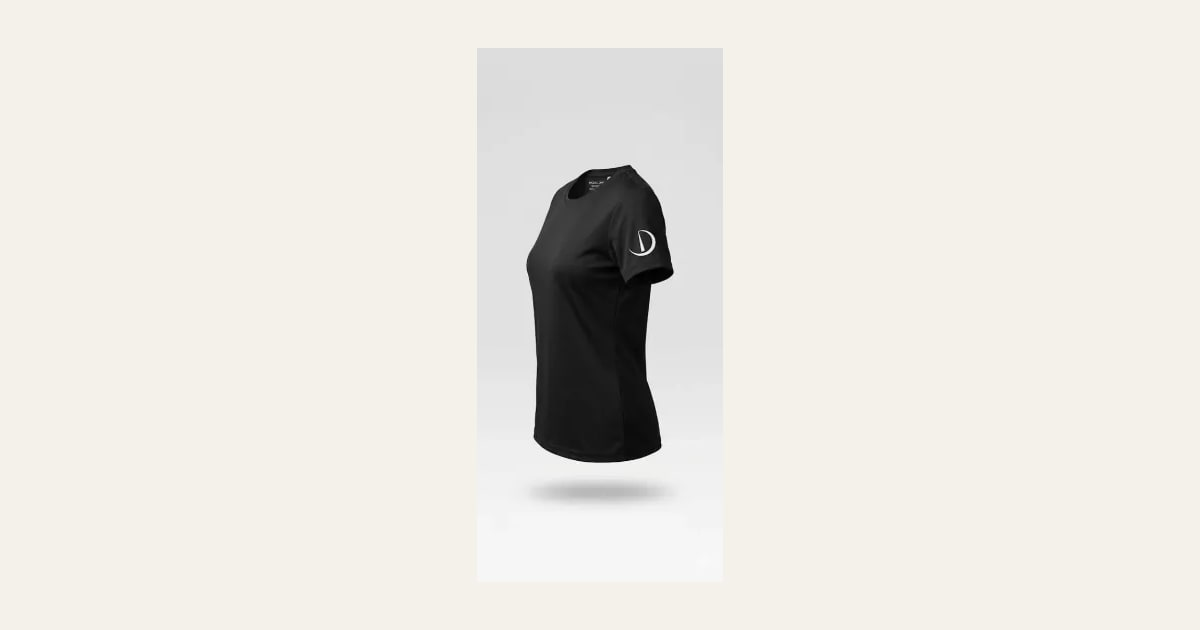
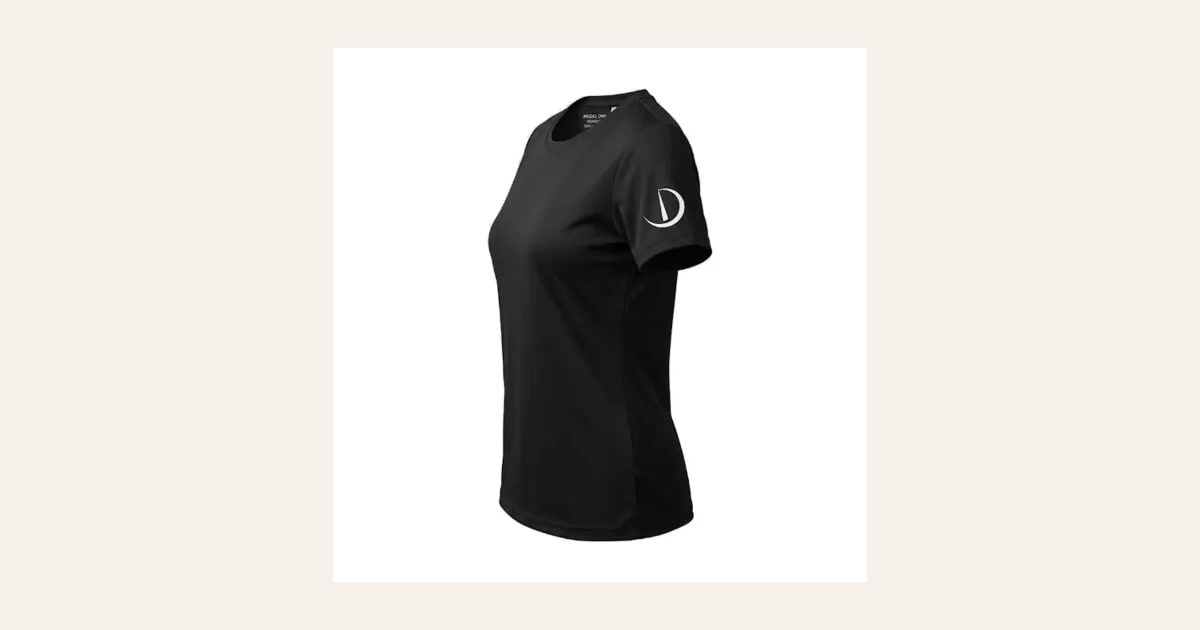
fix(images): clean main photos for Google Shopping on four products
- Ultimate Guide: cut out of the phone screenshot (grey ground, frame and
  AI sparkle removed); also replaces it in the menu, home and category.
- Tour Pure Women: the clean studio shot leads; the pink styled image with
  promotional text moves to hover/second image, where Google allows it.
- Women's Black Icon tee: grey ground and shadow replaced with white.
- Women's Black Performance tee: misspelled "DOMIUS" hem text removed.
New filenames so no cache serves the old ones; OG share images regenerated.
Men's Performance Tee title said Black for a white shirt - now White.

Changed region(s): [[0.37, 0.0603, 0.6167, 0.8746]]

diff --git a/src/data/products/apparel.ts b/src/data/products/apparel.ts
@@ -75,7 +75,7 @@ export const apparel: Product[] = [
   {
     id: 'dominus-tee-performance-black',
     name: "Performance Tee (Men's)",
-    seoTitle: "Performance Golf T-Shirt - Black (Men's)",
+    seoTitle: "Performance Golf T-Shirt - White (Men's)",
     seoDescription:
       "Men's moisture-wicking golf t-shirt in triblend fabric. Back logo with sleeve branding, built to train and play in.",
     category: 'apparel',
@@ -117,15 +117,15 @@ export const apparel: Product[] = [
     subcategory: "Women's Apparel",
     audience: 'women',
     price: 19.99,
-    image: '/images/unnamed-11__fc5a40f7.webp',
+    image: '/images/tee-womens-black-icon__72061fef.webp',
     hoverImage: '/images/unnamed-16__4cc41a28.webp',
     // Black only. This and the white icon tee are separate products, so each
     // offers just its own colour — listing both made them look like duplicates.
     colorVariants: {
-      Black: '/images/unnamed-11__fc5a40f7.webp',
+      Black: '/images/tee-womens-black-icon__72061fef.webp',
     },
     gallery: [
-      '/images/unnamed-11__fc5a40f7.webp',
+      '/images/tee-womens-black-icon__72061fef.webp',
       '/images/unnamed-16__4cc41a28.webp',
     ],
     badge: 'New',
@@ -193,13 +193,13 @@ export const apparel: Product[] = [
     subcategory: "Women's Apparel",
     audience: 'women',
     price: 19.99,
-    image: '/images/a2d1da0a-6213-4a84-8dca-5122fd81823a__3ed0e102.webp',
+    image: '/images/tee-womens-black-performance__0a43f740.webp',
     // Black only.
     colorVariants: {
-      Black: '/images/a2d1da0a-6213-4a84-8dca-5122fd81823a__3ed0e102.webp',
+      Black: '/images/tee-womens-black-performance__0a43f740.webp',
     },
     gallery: [
-      '/images/a2d1da0a-6213-4a84-8dca-5122fd81823a__3ed0e102.webp',
+      '/images/tee-womens-black-performance__0a43f740.webp',
     ],
     badge: 'New',
     description: "Dominus Golf performance tee for women in black. Moisture-wicking triblend with the iconic D logo-train and play in style.",

diff --git a/src/data/products/accessories.ts b/src/data/products/accessories.ts
@@ -55,9 +55,9 @@ export const accessories: Product[] = [
     category: 'accessories',
     subcategory: 'Education',
     price: 14.99,
-    image: '/images/Screenshot_20260324_042207_SamsungInternet__2f2a1710.webp',
+    image: '/images/book-ultimate-guide__3f8ec230.webp',
     gallery: [
-      '/images/Screenshot_20260324_042207_SamsungInternet__2f2a1710.webp',
+      '/images/book-ultimate-guide__3f8ec230.webp',
     ],
     badge: 'New',
     paymentUrl: 'https://square.link/u/CY8NyjAv',
@@ -85,7 +85,7 @@ export const accessories: Product[] = [
     subcategory: 'Education',
     price: 9.99,
     compareAtPrice: 14.99,
-    image: '/images/Screenshot_20260324_042207_SamsungInternet__2f2a1710.webp',
+    image: '/images/book-ultimate-guide__3f8ec230.webp',
     badge: 'FREE WITH TRAINER',
     paymentUrl: 'https://square.link/u/dgAr3D7l',
     description:

diff --git a/src/data/products/trainingSystems.ts b/src/data/products/trainingSystems.ts
@@ -50,11 +50,11 @@ export const trainingSystems: Product[] = [
     audience: 'women',
     subcategory: 'Performance',
     price: 59.99,
-    image: '/images/TourPureTrainerW2__165b6582.webp',
-    hoverImage: '/images/IMG-20251211-WA0000__f2e47d9b.webp',
+    image: '/images/tour-pure-women__b5d79756.webp',
+    hoverImage: '/images/TourPureTrainerW2__165b6582.webp',
     gallery: [
+      '/images/tour-pure-women__b5d79756.webp',
       '/images/TourPureTrainerW2__165b6582.webp',
-      '/images/IMG-20251211-WA0000__f2e47d9b.webp',
     ],
     badge: 'Sold Out',
     paymentUrl: 'https://square.link/u/MwoinSDb',

diff --git a/src/components/home/new/SystemSection.tsx b/src/components/home/new/SystemSection.tsx
@@ -8,7 +8,7 @@ const SYSTEM_CARDS = [
     text: 'A feedback-based training tool designed to reinforce proper sequencing, improve tempo, and help golfers feel correct swing positions through resistance training.'
   },
   {
-    image: '/images/Screenshot_20260324_042207_SamsungInternet__2f2a1710.webp',
+    image: '/images/book-ultimate-guide__3f8ec230.webp',
     title: 'THE TOUR PURE BLUEPRINT',
     text: 'A structured training manual that removes guesswork and provides a clear step-by-step system for developing swing mechanics, sequencing, and consistency.'
   },

diff --git a/src/components/home/BundleSection.tsx b/src/components/home/BundleSection.tsx
@@ -5,7 +5,7 @@ const IMG_FEEL_RIGHT_BAND =
   '/images/FeelRiteGolfBand__cc34ac6f.webp';
 
 const IMG_BOOK =
-  '/images/Screenshot_20260324_042207_SamsungInternet__2f2a1710.webp';
+  '/images/book-ultimate-guide__3f8ec230.webp';
 
 const IMG_TOWEL =
   '/images/ChatGPTImageMar24202607_40_17PM__db70f8cf.webp';

diff --git a/src/data/categories.ts b/src/data/categories.ts
@@ -10,7 +10,7 @@ export const categoryCards: CategoryCard[] = [
   {
     id: 'accessories',
     label: 'Accessories',
-    image: '/images/Screenshot_20260324_042207_SamsungInternet__2f2a1710.webp',
+    image: '/images/book-ultimate-guide__3f8ec230.webp',
     href: '/shop/accessories',
   },
   {
